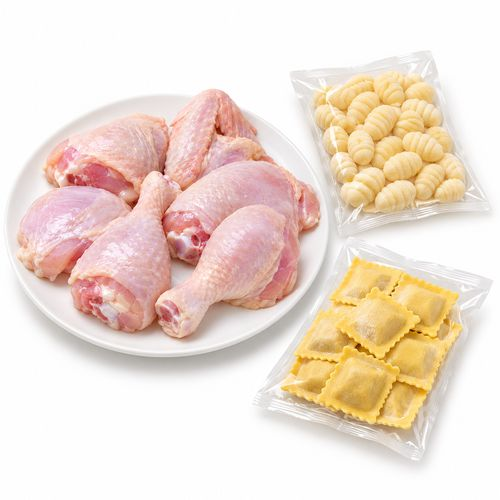
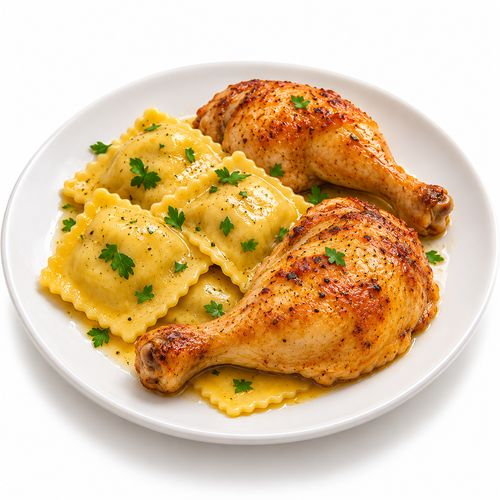
Repollo: menú Pollo con ravioles, '(para cocinar)' y textos/botones quitados
Claude-Session: https://claude.ai/code/session_01B2cXSMeNJUxs1Hx3VYRWSU

diff --git a/repollo/index.html b/repollo/index.html
@@ -63,7 +63,7 @@
             <div class="accesos-lista" id="accesos"></div>
           </nav>
           <div class="mini-bolsones">
-            <p class="mini-tit"><svg class="ico" aria-hidden="true"><use href="#i-chef-hat"/></svg>Menú del día</p>
+            <p class="mini-tit"><svg class="ico" aria-hidden="true"><use href="#i-chef-hat"/></svg>Menú del día <small>(para cocinar)</small></p>
             <div class="mini-lista" id="mini-bolsones"></div>
           </div>
         </div>
@@ -110,7 +110,7 @@
           <p class="eyebrow reveal">Elegí lo que necesites</p>
           <h2 id="t-pedido" class="reveal">Armá tu pedido <em>en un minuto</em></h2>
           <p class="sec-lead reveal">Abrí una categoría, tocá lo que querés y elegí cuánto: en kilos o por unidad.</p>
-          <p class="aviso-precio reveal"><svg class="ico" aria-hidden="true"><use href="#i-receipt"/></svg><span><b>Precios del día a la vista.</b> Elegí por kilo o por unidad y el total se calcula solo. Lo que dice "a consultar" te lo cotizamos por WhatsApp.</span></p>
+          <p class="aviso-precio reveal"><svg class="ico" aria-hidden="true"><use href="#i-receipt"/></svg><span><b>Precios del día a la vista.</b></span></p>
         </div>
       </div>
 
@@ -123,7 +123,7 @@
         <div id="categorias"></div>
 
         <div class="catalogo-cierre reveal">
-          <p>¿Ya elegiste? <b>Mandanos el pedido</b> y te confirmamos el total.</p>
+          <p>¿Ya elegiste? <b>Mandanos el pedido</b></p>
           <button type="button" class="btn btn-rojo btn-lg" data-abrir-pedido>
             Quiero pedir
             <span class="btn-ico"><svg class="ico" aria-hidden="true"><use href="#i-arrow-right"/></svg></span>
@@ -156,12 +156,6 @@
           <li class="paso reveal"><span class="paso-n">02</span><span class="paso-ico"><svg class="ico" aria-hidden="true"><use href="#i-send"/></svg></span><h3>Mandalo por WhatsApp</h3><p>El mensaje sale ya armado. Te respondemos con el total y el horario.</p></li>
           <li class="paso is-destacado reveal"><span class="paso-n">03</span><span class="paso-ico"><svg class="ico" aria-hidden="true"><use href="#i-truck"/></svg></span><h3>Recibilo gratis</h3><p>Te lo llevamos a tu casa sin costo de envío. Vos solo abrí la puerta.</p></li>
         </ol>
-        <div class="center reveal">
-          <a class="btn btn-amarillo btn-lg" href="#bolsones">
-            Empezar por un bolsón
-            <span class="btn-ico"><svg class="ico" aria-hidden="true"><use href="#i-arrow-right"/></svg></span>
-          </a>
-        </div>
       </div>
     </section>
 

diff --git a/repollo/datos.js b/repollo/datos.js
@@ -204,9 +204,8 @@ window.REPOLLO = {
        foto: "assets/menus/milanesas-pure.jpg",
        contenido: [ { emoji: "🥩", texto: "Milanesas 1 kg" }, { emoji: "🥔", texto: "Papa 1 kg" } ] },  */
   menuDelDia: [
-    { id: "pollo-pasta", foto: "assets/menus/pollo-pasta.jpg", nombre: "Pollo con pasta", precio: 8500,
-      contenido: ["1 kg de pollo trozado", "1 paquete de pasta"],
-      opciones: { titulo: "Elegí la pasta", items: ["Ñoquis", "Ravioles", "Fideos"] } },
+    { id: "pollo-pasta", foto: "assets/menus/pollo-pasta.jpg", nombre: "Pollo con ravioles", precio: 8500,
+      contenido: ["1 kg de pollo trozado", "1 paquete de ravioles"], resumen: "+ ravioles" },
     { id: "albondigas-papas", foto: "assets/menus/albondigas-papas.jpg", nombre: "Albóndigas con papas", precio: 8500,
       contenido: ["1 kg de albóndigas", "1 kg de papas"] },
     { id: "milanesas-ensalada", foto: "assets/menus/milanesas-ensalada.jpg", nombre: "Milanesas con ensalada", precio: 13500,

diff --git a/repollo/styles.css b/repollo/styles.css
@@ -1114,3 +1114,4 @@ body.has-order .jesus .wa-flotante { transform: none; opacity: 1; }
 .jesus-cerrar::after { content: ""; position: absolute; inset: -10px; }
 .jesus-cerrar .ico { width: 13px; height: 13px; }
 @media (min-width: 900px) { .hero-avatar .globo { display: none; } }
+.mini-tit small { font-size: .78rem; font-weight: 600; color: var(--texto-suave); }
